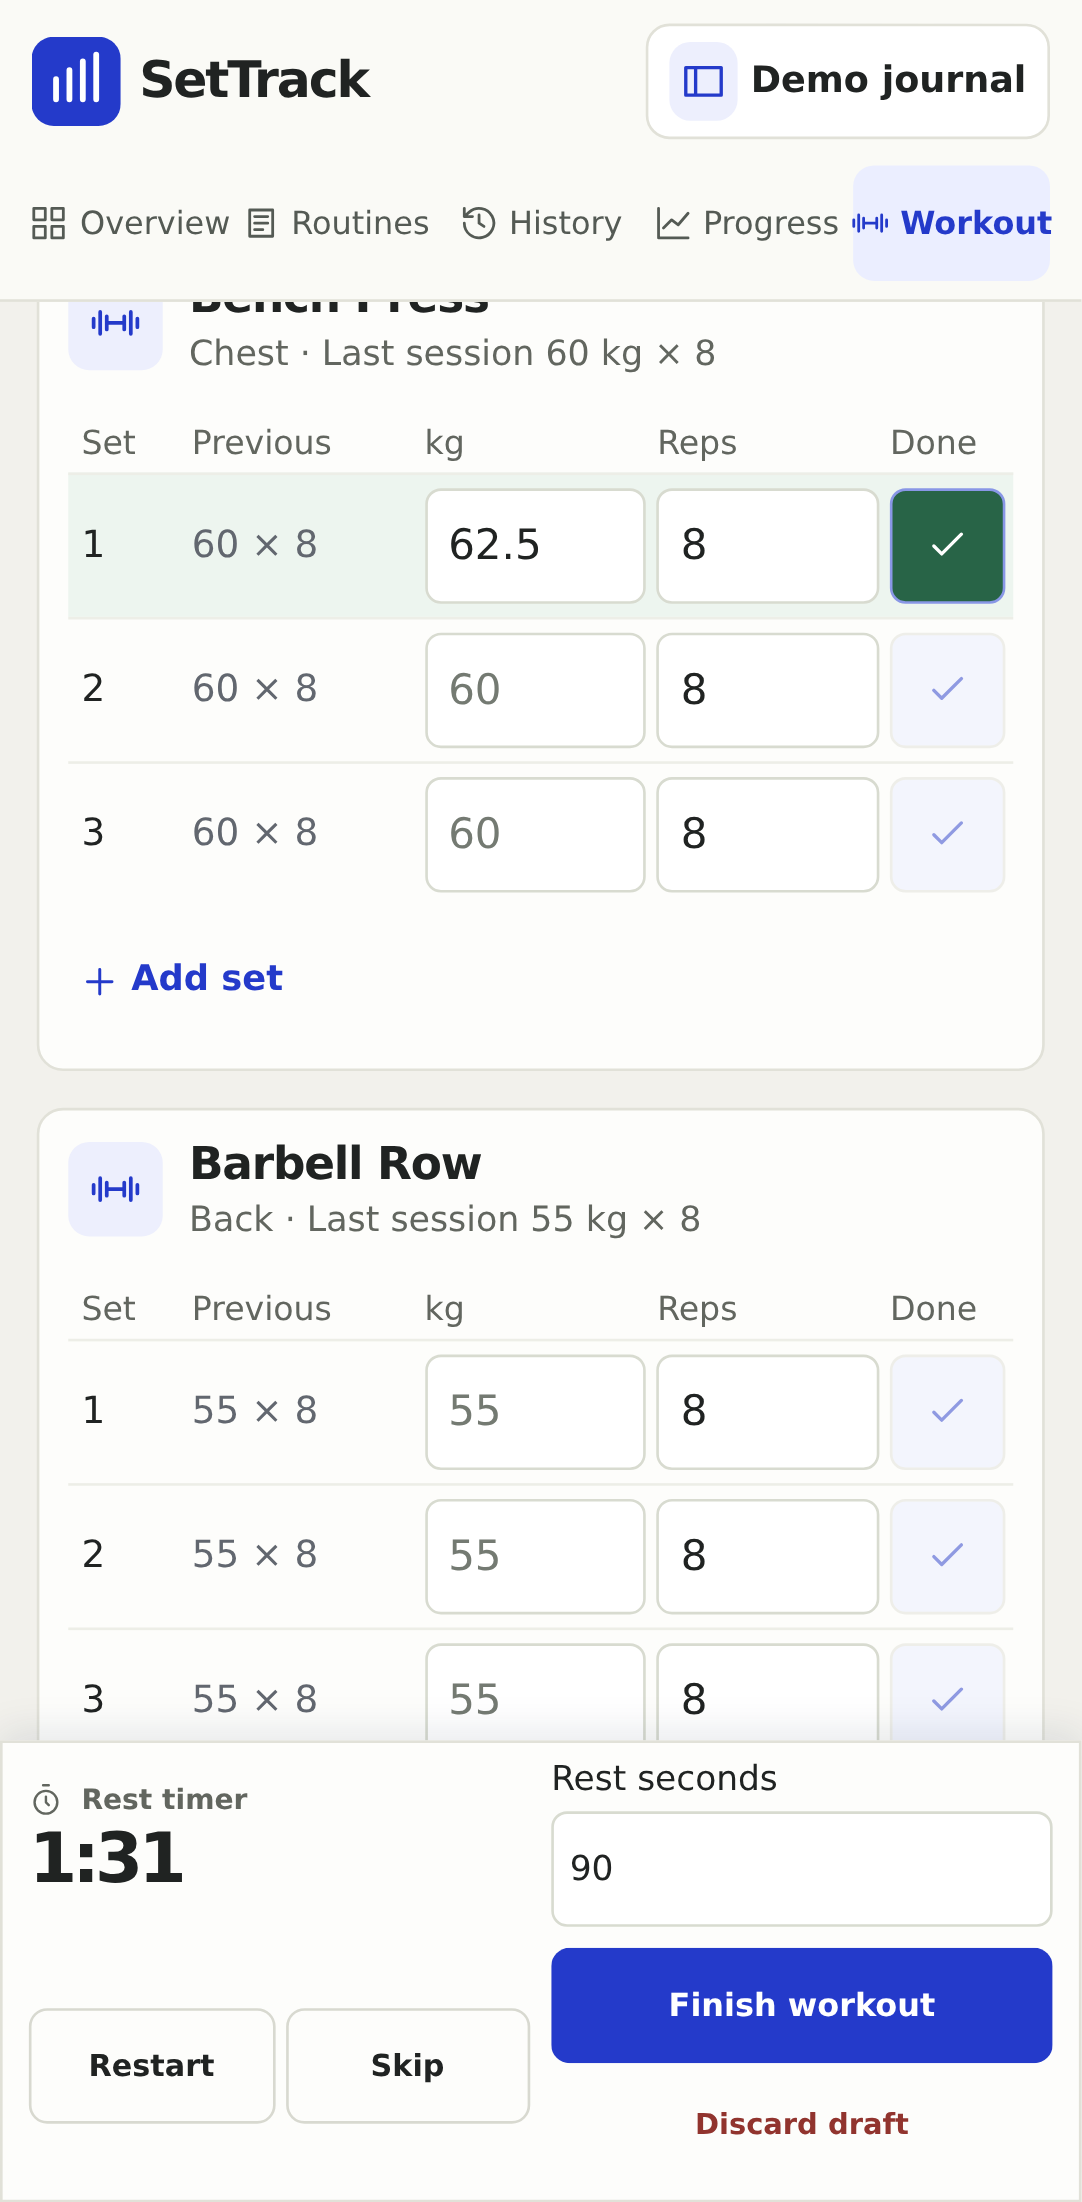
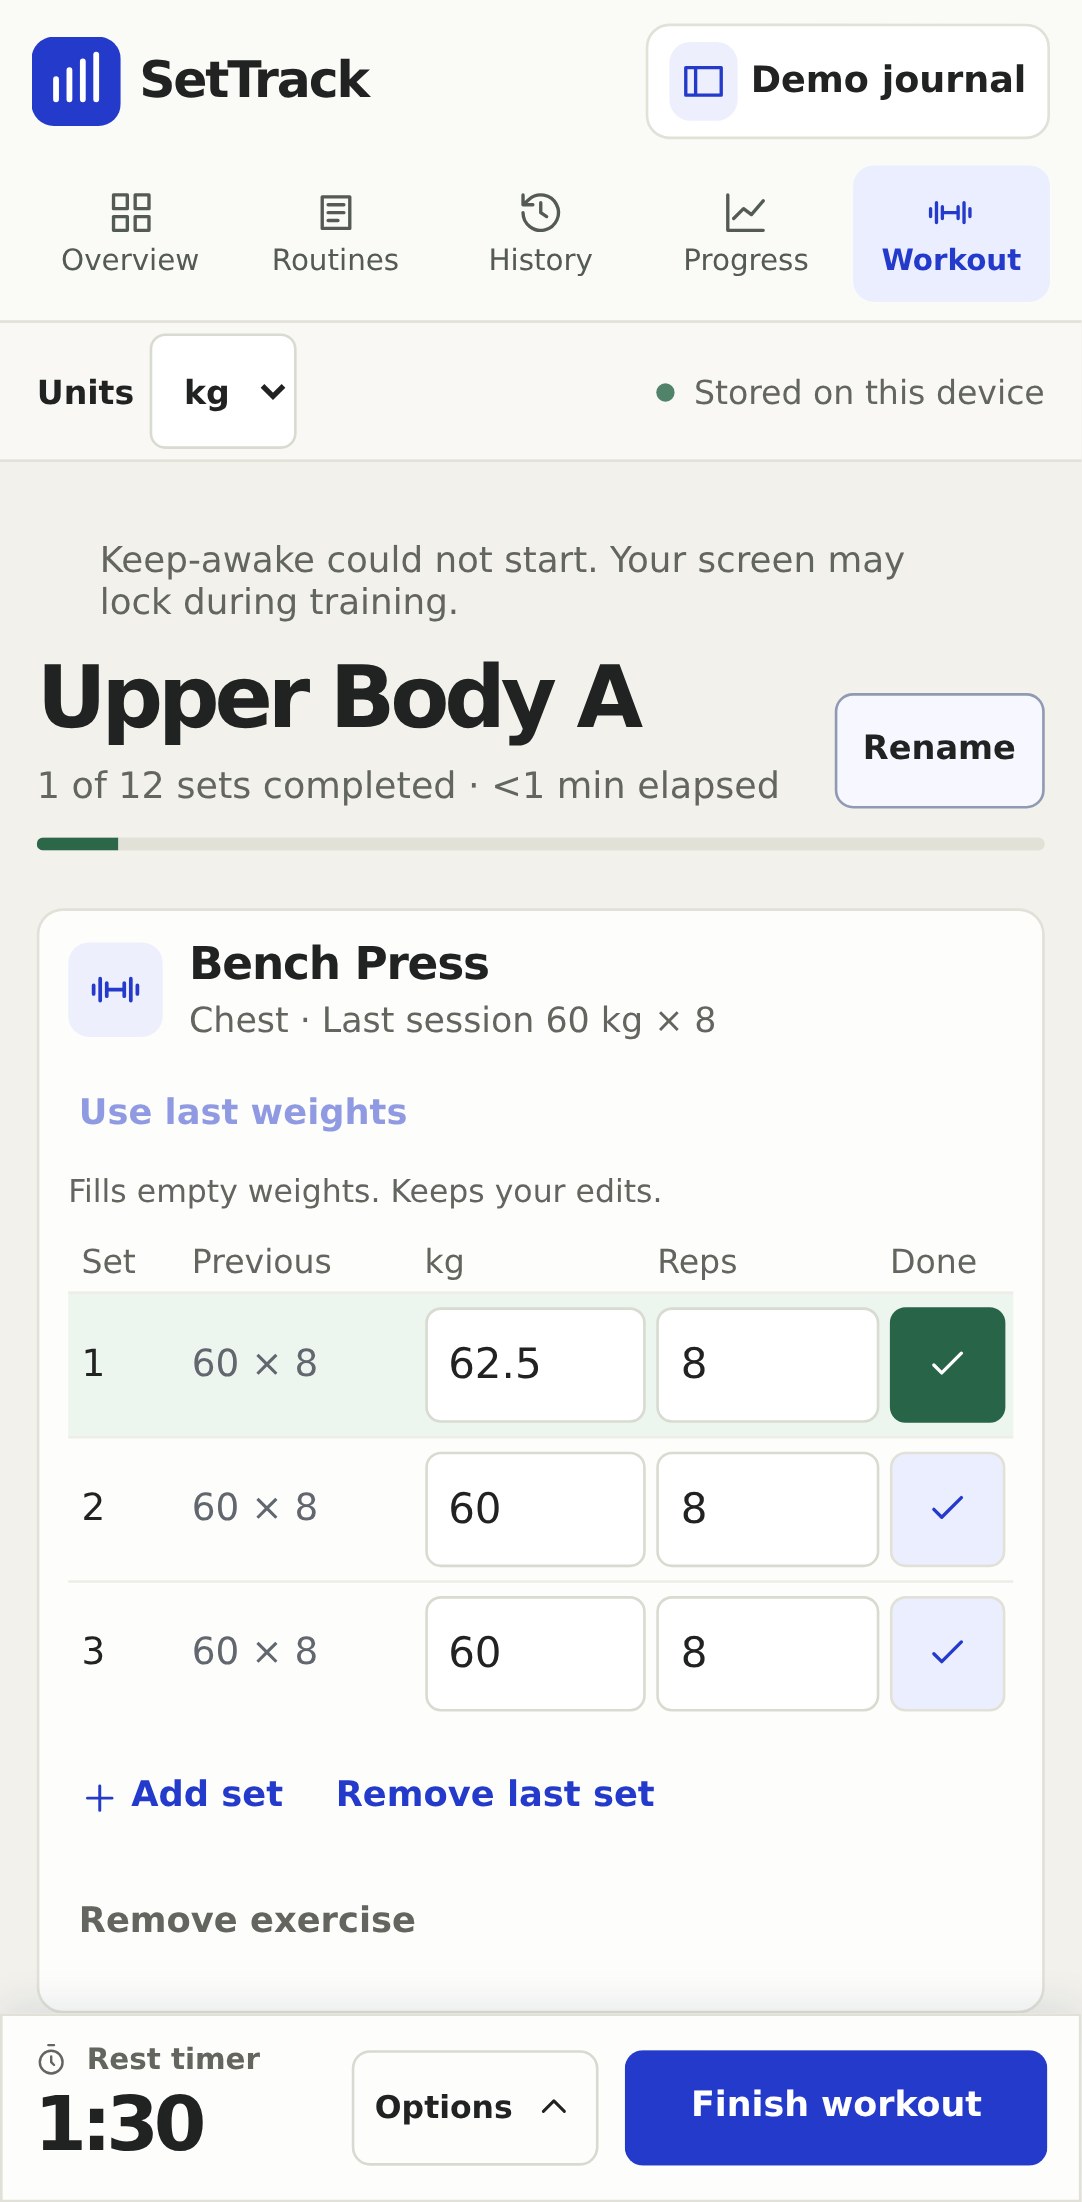
Refresh usability documentation and dashboard and phone screenshots

diff --git a/README.md b/README.md
@@ -11,6 +11,8 @@ SetTrack is a strength-training journal that puts your previous sets beside toda
 3. Select **Finish workout**, then **Save workout**. The summary highlights your new heaviest set.
 4. Select **View progress** to see the new weight on the chart.
 
+The demo is clearly marked as sample data. **Use my journal** opens your separate workspace, with optional editable starter routines and no sample history. SetTrack remembers your workspace for the next visit.
+
 Use **Demo journal → My journal** to start with a separate, empty workspace. Both journals use browser-local storage.
 
 ## What’s inside
@@ -19,7 +21,9 @@ Use **Demo journal → My journal** to start with a separate, empty workspace. B
 - An active workout log with previous-session values, draft recovery, a configurable rest timer with vibration/sound, and screen keep-awake when supported.
 - Per-workspace kg/lb preferences, with weights stored canonically in kilograms.
 - Validated JSON backups, confirmed imports, and editing/deletion of past workouts and sets.
-- Session summaries, workout history, per-lift charts, and the underlying chart values in a table.
+- Searchable workout history with exercise and period filters, plus **Repeat workout** to start from a past session with fresh, unchecked sets.
+- One-tap **Use last weights** for empty entries, new sets that reuse the previous values, named drafts, and confirmed removal of draft sets/exercises.
+- Session summaries, selectable lift charts on Overview, detailed per-lift progress, and the underlying chart values in a table.
 - An installable PWA with maskable icons, dark mode, offline access after installation, and an update prompt that preserves saved journal data.
 
 ## Screenshots
@@ -36,7 +40,7 @@ The app requests persistent storage, but the browser decides whether to grant it
 
 Open a workout in **History → Edit workout** to correct its name, date, weights, or reps, or delete individual sets. Set deletions take effect on **Save changes**. Deleting an entire workout requires confirmation.
 
-During a workout, set **Rest seconds** (5–3600); completing a set starts that duration. Sound requires an interaction with the page, and vibration/wake lock depend on device and browser support. A visible notice also announces the timer ending. Backgrounded or locked mobile browsers may delay alerts until the app resumes.
+On phones the timer stays compact beside **Finish workout**; open **Options** to adjust the timer or discard the draft. During a workout, set **Rest seconds** (5–3600); completing a set starts that duration. Sound requires an interaction with the page, and vibration/wake lock depend on device and browser support. A visible notice also announces the timer ending. Backgrounded or locked mobile browsers may delay alerts until the app resumes.
 
 ## Run locally
 
@@ -77,7 +81,7 @@ gh repo edit naumansaeed0/settrack \
   --add-topic pwa --add-topic fitness --add-topic workout-tracker --add-topic offline-first
 ```
 
-Browser coverage includes desktop and phone offline logging, hash-route reloads, backup restoration, past-workout editing/deletion, unavailable storage and quota failures, workspace units, device-API fallbacks, icon dimensions/tap targets/dark mode, and a real waiting-service-worker upgrade. Device APIs are simulated for repeatable assertions; physical vibration, audible sound and OS screen-lock behavior still need a real-device check.
+Browser coverage includes desktop and phone offline logging, hash-route reloads, backup restoration, past-workout editing/deletion, unavailable storage and quota failures, workspace units, device-API fallbacks, icon dimensions/tap targets/dark mode, and a real waiting-service-worker upgrade. The additional usability coverage checks demo-to-personal onboarding, remembered workspaces and browser navigation, history filters, repeated sessions, one-tap weight entry without overwriting edits, confirmed draft cleanup, compact timer expansion, lift selection, and overflow at 320px/768px. Device APIs are simulated for repeatable assertions; physical vibration, audible sound and OS screen-lock behavior still need a real-device check.
 
 ## Implementation
 
